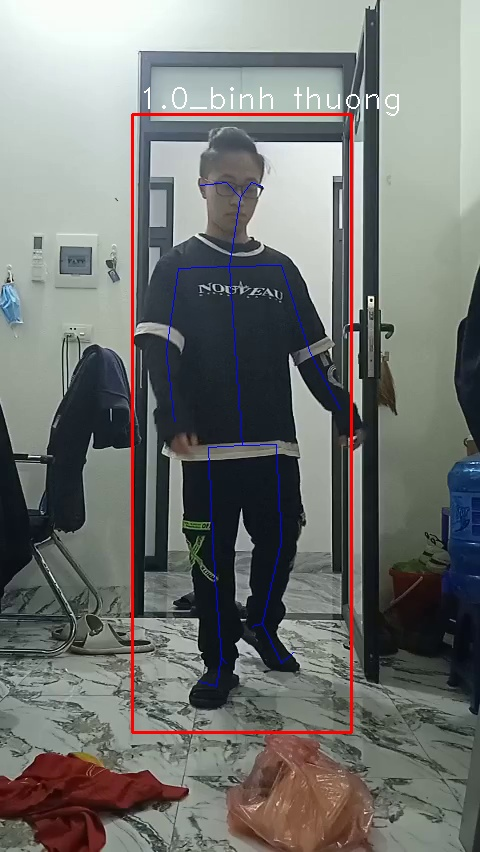
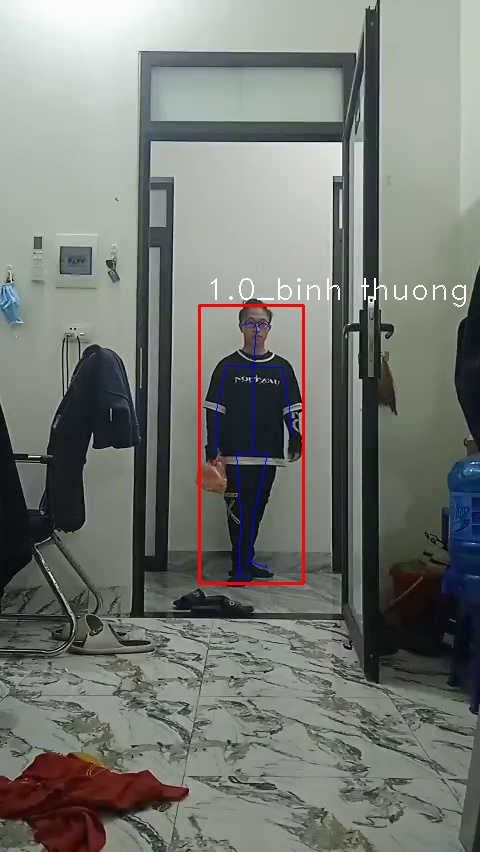
update main

diff --git a/main.py b/main.py
@@ -14,12 +14,40 @@ sys.path.insert(0, root)
 from preprocessing.util import point_object
 from sort.sort import Sort
 from preprocessing.util import draw
+from model import LSTM
+from src import write_txt, convert_input
 
-mot_tracker = Sort(max_age=10)
-yolo_person = torch.hub.load('yolov5', 'custom', path='checkpoints/yolov5n.pt', source='local')  # or yolov5n - yolov5x6, custom
-yolo_trash = torch.hub.load('yolov5', 'custom', path='checkpoints/trash.pt', source='local')  # or yolov5n - yolov5x6, custom
-model_pose = torch_openpose.torch_openpose('body_25')
+class Model():
+    def __init__(self, opt = None):
+        self.device = torch.device("cuda" if torch.cuda.is_available() else "cpu")
 
+        self.model = LSTM(input_size= opt.replicate * 50, hidden_size= 128, num_layers= 4, num_classes= 2, device= self.device)
+        self.checkpoint_model = os.path.join(opt.checkpoint_path, opt.name_model, opt.num_train, opt.num_ckp+'.pth')
+        self.model.load_state_dict(torch.load(self.checkpoint_model)['model_state_dict'])
+        self.model = self.model.to(self.device)
+        self.model.eval()
+
+        self.replicate = opt.replicate
+
+
+    def preprocess(self, points):
+        if len(points) < self.replicate :
+            for i in range(self.replicate - len(points)) :
+                points.append(points[-1])
+            points = np.array(points)
+        else : 
+            points = np.array(points)[-30:]
+        points = points.reshape(self.replicate * 50)
+        points  = np.array(points).reshape(1, len(points))
+        return torch.tensor(points).to(self.device).unsqueeze(0).float()
+    def predict(self, points):
+        if len(points) ==0 :
+            return 0
+        points = self.preprocess(points)
+        input = torch.tensor(points)
+        label = self.model(input)
+        return label
+        
 def parse_opt():
     parser = argparse.ArgumentParser()
     parser.add_argument('--option', type=str, choices=['camrtsp', 'webcam', 'video'])
@@ -28,10 +56,16 @@ def parse_opt():
     
     parser.add_argument('--tile', type=float, default= 1.2)
     parser.add_argument('--dTrash', type= float, default= 10)
+    parser.add_argument('--checkpoint_path', type= str, default= 'checkpoints/')
+    parser.add_argument('--replicate', type= int, default= 30)
+    parser.add_argument('--name_model', type = str, default = 'LSTM')
+    parser.add_argument('--num_train', type= str, default= '0')
+    parser.add_argument('--num_ckp', type= str, default= 'best_epoch')
     opt = parser.parse_args()
     return opt
-def main(opt, mot_tracker = mot_tracker, yolo_person = yolo_person, \
-         yolo_trash = yolo_trash, model_pose = model_pose) :
+def main(opt, mot_tracker , yolo_person , \
+         yolo_trash , model_pose ) :
+    model = Model(opt= opt)
     if opt.option == 'camrtsp' :
         cap = cv2.VideoCapture(opt.camrtsp)
     elif opt.option == 'webcam' :
@@ -56,12 +90,16 @@ def main(opt, mot_tracker = mot_tracker, yolo_person = yolo_person, \
             for (left, top, right, bottom), id in zip(person_locations, ids):
                 label_id[id] = 'binh thuong'
                 image = frame [top: bottom, left :right]
+                pose = []
                 try :
                     pose = model_pose(image)
                     if len(pose) != 0 :
                         points = np.array(pose[0])[:, 0:2]
+                        
+                        points = convert_input(points, frame_width, frame_height)
                         frame = draw(frame, pose, left, top)
                         # print(points)
+                        
                         if id not in pose_id:
                             pose_id[id] = [points]
                         else:
@@ -71,6 +109,10 @@ def main(opt, mot_tracker = mot_tracker, yolo_person = yolo_person, \
                 except :
                     print('error')
                     continue
+                print(model.preprocess(pose_id[id]).shape)
+                label = model.predict(pose_id[id])
+                print(label)
+                # label_id[id] = label
                 cv2.rectangle(frame, (left, top), (right, bottom), (0, 0, 255), 2)
                 font = cv2.FONT_HERSHEY_DUPLEX
                 cv2.putText(frame, f'{id}_{label_id[id]}', (left + 6, top - 6), font, 1.0, (255, 255, 255), 1)
@@ -86,6 +128,11 @@ def main(opt, mot_tracker = mot_tracker, yolo_person = yolo_person, \
 
 if __name__ == "__main__" : 
     opt = parse_opt()
-    
+
+    mot_tracker = Sort(max_age=10)
+    yolo_person = torch.hub.load('yolov5', 'custom', path='checkpoints/yolov5n.pt', source='local')  # or yolov5n - yolov5x6, custom
+    yolo_trash = torch.hub.load('yolov5', 'custom', path='checkpoints/trash.pt', source='local')  # or yolov5n - yolov5x6, custom
+    model_pose = torch_openpose.torch_openpose('body_25')
+
     main(opt, mot_tracker = mot_tracker, yolo_person = yolo_person, \
          yolo_trash = yolo_trash, model_pose = model_pose)

diff --git a/LSTM_train.py b/LSTM_train.py
@@ -1,20 +1,20 @@
 import argparse
 import os
 import numpy as np
-from tqdm import tqdm
 import torch
-from torch import nn
-from torch.utils.data import DataLoader
-
-# import torchvision
-# from torchvision import datasets, models, transforms
-from torch.optim import lr_scheduler
 import torch.optim as optim
 import cv2
-from preprocessing.datasets import DatasetLSTM
-from model import LSTM
 import time
 import copy
+import datetime
+
+from tqdm import tqdm
+from torch import nn
+from torch.utils.data import DataLoader
+from src import write_txt
+from torch.optim import lr_scheduler
+from preprocessing.datasets import DatasetLSTM
+from model import LSTM
 def get_opt():
     parser = argparse.ArgumentParser()
     parser.add_argument('--name', type=str, default='nam')
@@ -29,11 +29,12 @@ def get_opt():
     parser.add_argument('--save_dir', type=str, default='results/')
     
     #checkpoints, train
+    parser.add_argument('--name_model', type= str, default= 'LSTM')
     parser.add_argument('--checkpoint_dir', type=str, default='checkpoints/')
     parser.add_argument("--gpu", type=str, default='1', help="choose gpu device.")
     parser.add_argument("--epochs", type=int, default=20)
     parser.add_argument("--lr", type=int, default=0.005)
-
+    parser.add_argument('--num_save_ckp', type= int, default= 5)
     opt = parser.parse_args()
     return opt
 # -------------------------------------------------
@@ -59,7 +60,7 @@ def train(opt):
             running_corrects = 0
             for inputs in tqdm(dataLoader[phase]):
                 input = inputs['input'].float().to(device)
-                # print(input.shape)
+                print(input.shape)
                 labels = inputs['label'].to(device)
                 optimizer.zero_grad()
                 with torch.set_grad_enabled(phase == 'train'):
@@ -86,12 +87,16 @@ def train(opt):
                 best_acc = epoch_acc
                 best_model_wts = copy.deepcopy(model.state_dict())
                 best_epoch = epoch
-        torch.save({
+        if epoch % opt.num_save_ckp == 0 or epoch == opt.epochs :
+            path_save_ckp = os.path.join(opt.checkpoint_dir, opt.name_model, \
+                          str(len(os.listdir(os.path.join(opt.checkpoint_dir, opt.name_model))) -1),\
+                            str(epoch)+'.pth')
+            torch.save({
             'epoch': epoch,
             'model_state_dict': model.state_dict(),
             'optimizer_state_dict': optimizer.state_dict(),
             'loss': loss,
-        }, os.path.join(opt.checkpoint_dir, "LSTM", (str(epoch)+".pth")))
+            },path_save_ckp)
         print()
     print(f'Best val Acc: {best_acc:4f}, epoch: {best_epoch}')
 
@@ -105,9 +110,7 @@ def train(opt):
 if __name__ == '__main__':
     opt = get_opt()
     # crop_train(opt = opt)
-    
-    if not os.path.exists(os.path.join(opt.checkpoint_dir, "LSTM")):
-        os.mkdir(os.path.join(opt.checkpoint_dir, "LSTM"))
+    print(opt)
 
     #----------------------dataloader---------------------
     Dataset = DatasetLSTM(opt)
@@ -124,12 +127,24 @@ if __name__ == '__main__':
         'train' : trainLoader,
         'val': valLoader
     }
-    print(trainDataset.__getitem__(0)['input'].shape)
 
+    if not os.path.exists(os.path.join(opt.checkpoint_dir, opt.name_model)) :
+        os.mkdir(os.path.join(opt.checkpoint_dir, opt.name_model))
+
+    os.mkdir(os.path.join(opt.checkpoint_dir, opt.name_model, \
+                          str(len(os.listdir(os.path.join(opt.checkpoint_dir, opt.name_model))))))
+
+    write_txt(opt, os.path.join(opt.checkpoint_dir, opt.name_model,\
+            str(len(os.listdir(os.path.join(opt.checkpoint_dir, opt.name_model))) -1), 'opt.txt'))
+    start_time = time.time()
     model, best_epoch = train(opt)
     torch.save({
         'epoch': best_epoch,
         'model_state_dict': model.state_dict(),
-    }, os.path.join(opt.checkpoint_dir, "LSTM", ("best_epoch"+".pth")))
+    }, os.path.join(opt.checkpoint_dir, opt.name_model, \
+                          str(len(os.listdir(os.path.join(opt.checkpoint_dir, opt.name_model))) -1),\
+                            'best_epoch.pth'))
 
-    print("done")
+    total_time = time.time() - start_time
+    total_time_str = str(datetime.timedelta(seconds=int(total_time)))
+    print('Training time {}'.format(total_time_str))

diff --git a/src.py b/src.py
@@ -1,0 +1,21 @@
+import cv2
+import torch
+import os
+import numpy as np
+
+def write_txt(noidung, path, remove = False):
+    if os.path.exists(path) and remove == True:
+        os.remove(path)
+    with open(path, 'a') as f:
+        f.write("%s\n" % noidung)
+        f.close()
+
+def convert_input(points, width, height) :
+    tmp = list(points.reshape(50))
+    arr = []
+    for i in range(len(tmp)) :
+        if i % 2 == 0 :
+            arr.append(tmp[i] / width)
+        elif i%2 ==1:
+            arr.append(tmp[i]/ height)
+    return np.array(arr)

diff --git a/preprocessing/datasets.py b/preprocessing/datasets.py
@@ -44,7 +44,7 @@ class DatasetLSTM(data.Dataset):
                 input = np.array(input)
             else : 
                 input = np.array(input)[-30:]
-            input = np.array(input).reshape(1500)
+            input = np.array(input).reshape(self.replicate * 50)
             labels.append(label)
             inputs.append(input)
 
